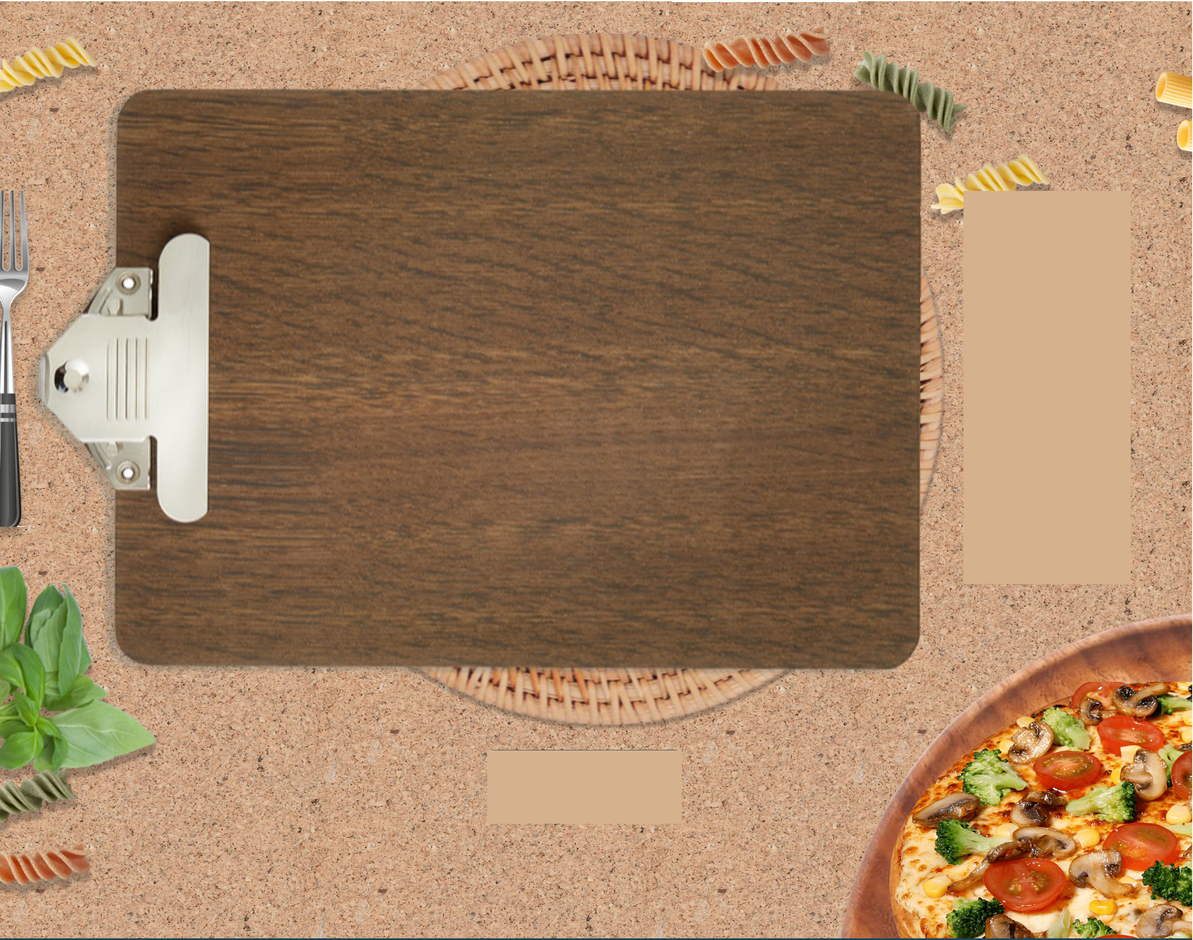
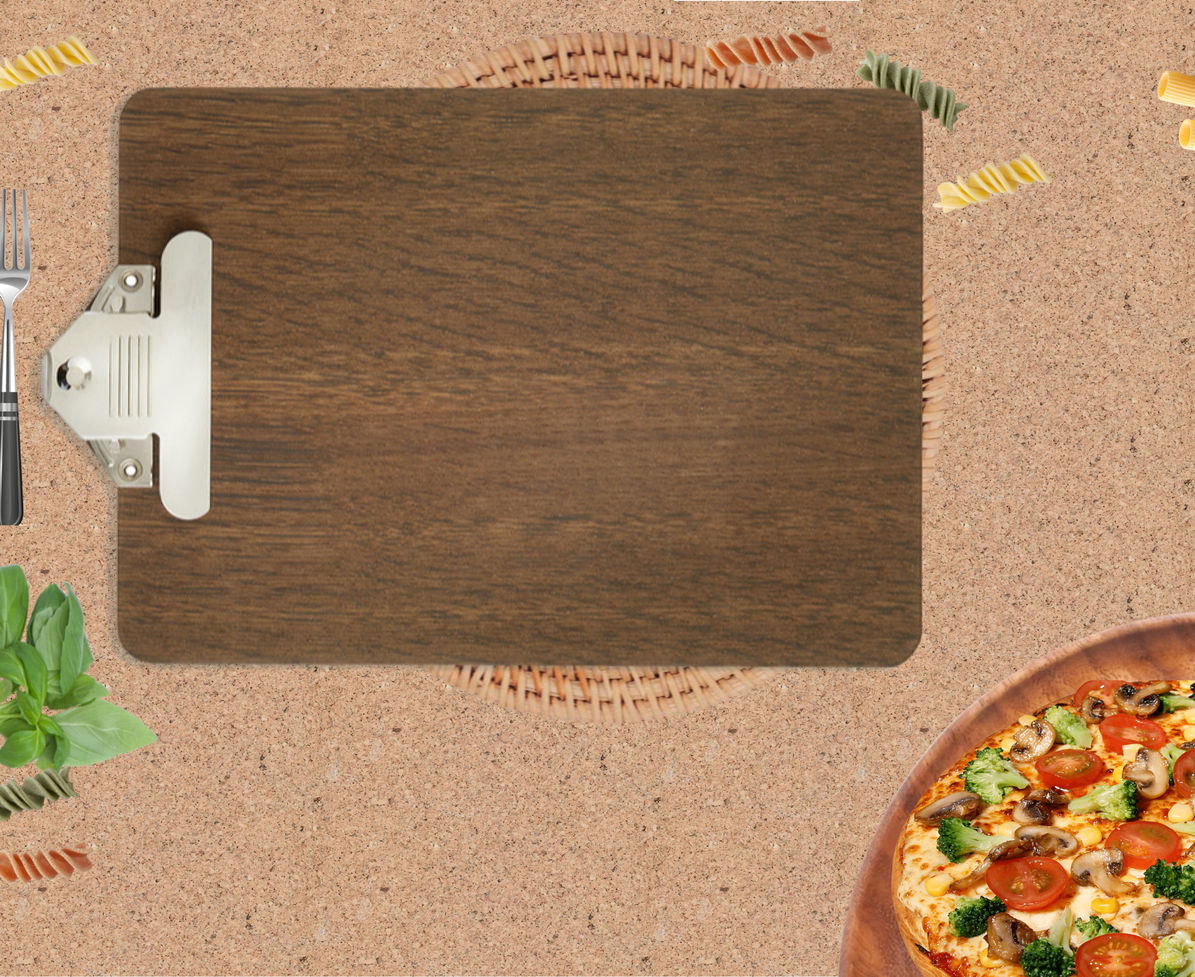
Started adding titles

diff --git a/src/utils/utils.js b/src/utils/utils.js
@@ -175,88 +175,109 @@ export default class Utils {
         fields: [
           {
             id: 0,
-            pos: { top: 240, left: 50 },
+            pos: { top: 240, left: 55 },
             name: { p: 'FETTUCINE', v: '' },
             desc: { p: 'EXERCITATION DOLOR AON', v: '' },
             price: { p: 'X,XX', v: '' },
           },
           {
             id: 1,
-            pos: { top: 290, left: 50 },
+            pos: { top: 300, left: 55 },
             name: { p: 'TAGLIOLINI', v: '' },
             desc: { p: 'EXERCITATION DOLOR AUTE AON', v: '' },
             price: { p: 'X,XX', v: '' },
           },
           {
             id: 2,
-            pos: { top: 340, left: 50 },
+            pos: { top: 360, left: 55 },
             name: { p: 'CARBONARA', v: '' },
             desc: { p: 'EXERCITATION DOLOR AON', v: '' },
             price: { p: 'X,XX', v: '' },
           },
           {
             id: 3,
-            pos: { top: 390, left: 50 },
+            pos: { top: 580, left: 55 },
             name: { p: 'RAVIOLI', v: '' },
             desc: { p: 'EXERCITATION DOLOR AUTE AON', v: '' },
             price: { p: 'X,XX', v: '' },
           },
           {
             id: 4,
-            pos: { top: 610, left: 50 },
+            pos: { top: 640, left: 55 },
             name: { p: 'PUMPKIN', v: '' },
             desc: { p: 'EXERCITATION DOLOR AON', v: '' },
             price: { p: 'X,XX', v: '' },
           },
           {
             id: 5,
-            pos: { top: 660, left: 50 },
+            pos: { top: 700, left: 55 },
             name: { p: 'MINNESTRONI', v: '' },
             desc: { p: 'EXERCITATION DOLOR AUTE AON', v: '' },
             price: { p: 'X,XX', v: '' },
           },
           {
             id: 6,
-            pos: { top: 550, left: 550 },
+            pos: { top: 460, left: 570 },
             name: { p: 'MARGARITA', v: '' },
             desc: { p: 'EXERCITATION DOLOR AON', v: '' },
             price: { p: 'X,XX', v: '' },
           },
           {
             id: 7,
-            pos: { top: 600, left: 550 },
+            pos: { top: 520, left: 570 },
             name: { p: 'PEPPERONI', v: '' },
             desc: { p: 'EXERCITATION DOLOR AUTE AON', v: '' },
             price: { p: 'X,XX', v: '' },
           },
           {
             id: 8,
-            pos: { top: 650, left: 550 },
+            pos: { top: 580, left: 570 },
             name: { p: 'VEGETARIAN', v: '' },
             desc: { p: 'EXERCITATION DOLOR AUTE AON', v: '' },
             price: { p: 'X,XX', v: '' },
           },
           {
             id: 9,
-            pos: { top: 550, left: 880 },
-            name: { p: 'TIRAMISU', v: '' },
+            pos: { top: 640, left: 570 },
+            name: { p: 'TONNO', v: '' },
             desc: { p: 'EXERCITATION DOLOR AON', v: '' },
             price: { p: 'X,XX', v: '' },
           },
           {
             id: 10,
-            pos: { top: 600, left: 880 },
+            pos: { top: 700, left: 570 },
+            name: { p: 'SPICY TUNA', v: '' },
+            desc: { p: 'EXERCITATION DOLOR AUTE AON', v: '' },
+            price: { p: 'X,XX', v: '' },
+          },
+          {
+            id: 12,
+            pos: { top: 540, left: 900 },
+            name: { p: 'TIRAMISU', v: '' },
+            desc: { p: 'EXERCITATION DOLOR AUTE AON', v: '' },
+            price: { p: 'X,XX', v: '' },
+          },
+          {
+            id: 13,
+            pos: { top: 600, left: 900 },
             name: { p: 'CANNOLI', v: '' },
             desc: { p: 'EXERCITATION DOLOR AUTE AON', v: '' },
             price: { p: 'X,XX', v: '' },
           },
           {
-            id: 11,
-            pos: { top: 650, left: 880 },
+            id: 14,
+            pos: { top: 660, left: 900 },
             name: { p: 'PANNACOTTA', v: '' },
             desc: { p: 'EXERCITATION DOLOR AUTE AON', v: '' },
             price: { p: 'X,XX', v: '' },
           },
+        ],
+        titles: [
+          { id:0, v: 'Italian Menu', main: true, left: 640, top: 70 },
+          { id:1, v: 'Pasta', left: 30, top: 110 },
+          { id:3, v: 'Pizza', left: 30, top: 440 },
+          { id:4, v: 'Pizza', left: 550, top: 375 },
+          { id:5, v: 'Desserts', left: 870, top: 400 },
         ],
         pages: [],
         activePage: 0
@@ -342,7 +363,7 @@ export default class Utils {
   getFilledFields(pages){
     let filled = 0
     pages.forEach(page => {
-      page.forEach(obj => {
+      page.fields.forEach(obj => {
         if(!angular.isUndefined(obj.name.v) && obj.name.v !== '')
           filled++
       })

diff --git a/src/styles/menu.scss b/src/styles/menu.scss
@@ -29,6 +29,20 @@
       }
       .ctn-menu{
         position: relative;
+        input.title-gr{
+          font-family: $ru;
+          font-size: 70px;
+          color: $t;
+          width: 250px;
+          text-align: center;
+          line-height: 1;
+          background: $tr;
+          //&:focus{ outline: none; }
+          border: none;
+          &.title-main{
+            font-size: 100px;
+          }
+        }
         .input-gr input{
           @include plh($b);
           font-family: $ex;
@@ -221,16 +235,13 @@
       height: 1400px;
       .ctn-menu-outer{
         position: absolute;
-        top: 160px; left: 240px;
+        top: 150px; left: 240px;
       }
       .ctn-menu-inner {
         position: relative;
         width: 1145px;
-        height: 210mm;
+        height: 205mm;
         padding: 20px;
-        //margin: 0 auto;
-        //background: url(/assets/japanese/menu-bg.jpg);
-        //background-size: 100%;
       }
       .ctn-menu-page{
         padding: 0;
@@ -239,6 +250,12 @@
         background: url(/assets/pizza/menu.jpg) no-repeat;
         background-size: 100% 100%;
         height: 100%;
+        input.title-gr{
+          position: absolute;
+          &.title-main{
+            width: 450px;
+          }
+        }
         .input-gr{
           @extend %j-s-b;
           align-items: flex-start;

diff --git a/src/templates/pizza.html b/src/templates/pizza.html
@@ -7,7 +7,7 @@
         >
         <div class="ctn-menu">
           <div class="input-gr"
-             ng-repeat="gr in currPage track by $index"
+             ng-repeat="gr in currPage.fields track by $index"
              ng-style="{ top: gr.pos.top + 'px', left: gr.pos.left + 'px' }"
             >
             <div class="text-left">
@@ -22,6 +22,11 @@
               <input class="price" type="text" ng-model="gr.price.v" placeholder="{{gr.price.p}}"/>
             </div>
           </div>
+          <input class="title-gr"
+             ng-repeat="gr in currPage.titles track by $index"
+             ng-style="{ top: gr.top + 'px', left: gr.left + 'px' }"
+             ng-class="{ 'title-main': !!gr.main }"
+             ng-model="gr.v" />
         </div>
       </div>
     </div>

diff --git a/src/controllers/Home.js b/src/controllers/Home.js
@@ -120,9 +120,14 @@ export default class HomeCtrl {
   addMenuPage(){
     l("add page")
     this.focusedEl = null
-    this.menu.pages.push(angular.copy(this.menu.fields))
+    // this.menu.pages.push(angular.copy(this.menu.fields))
+    this.menu.pages.push({
+      fields: angular.copy(this.menu.fields),
+      titles: angular.copy(this.menu.titles),
+    })
     this.menu.activePage = this.menu.pages.length - 1
-    this.totalFields = this.menu.pages.reduce((prev, curr) => prev + curr.length, 0)
+    l(this.menu)
+    this.totalFields = this.menu.pages[0].fields.reduce((prev, curr) => prev + curr.length, 0)
   }
   zoomFn(dir){ this.zoom = this.utils.zoom(this.zoom, dir) }
   focusFn(dir){ this.utils.focus(dir, this.focusedEl, this.menu) }

diff --git a/src/app.js b/src/app.js
@@ -37,7 +37,7 @@ import 'angular-ui-carousel/dist/ui-carousel.min.css'
 // template: require('./templates/home.html').default,
 
 WebFont.load({
-  google: { families: ['Exo 2:400,700', 'Open Sans:400,700'] }
+  google: { families: ['Exo 2:400,700', 'Open Sans:400,700', 'Ruthie:400'] }
   , active: function() {
     l("Webfonts loaded")
   }

diff --git a/src/styles/vars.scss b/src/styles/vars.scss
@@ -1,14 +1,17 @@
 // Colors
 $pr: #1d4455;
 $sc: #fdfdfd;
+$t: #ee3129;
 $w: #fff;
 $b: #000;
 $l: #f6f6f6;
 $bg: rgb(36, 41, 46);
+$tr: transparent;
 
 // Fonts
 $ex: 'Exo 2';
 $os: 'Open Sans';
+$ru: 'Ruthie';
 
 // Others
 $headHeight: 53px;
